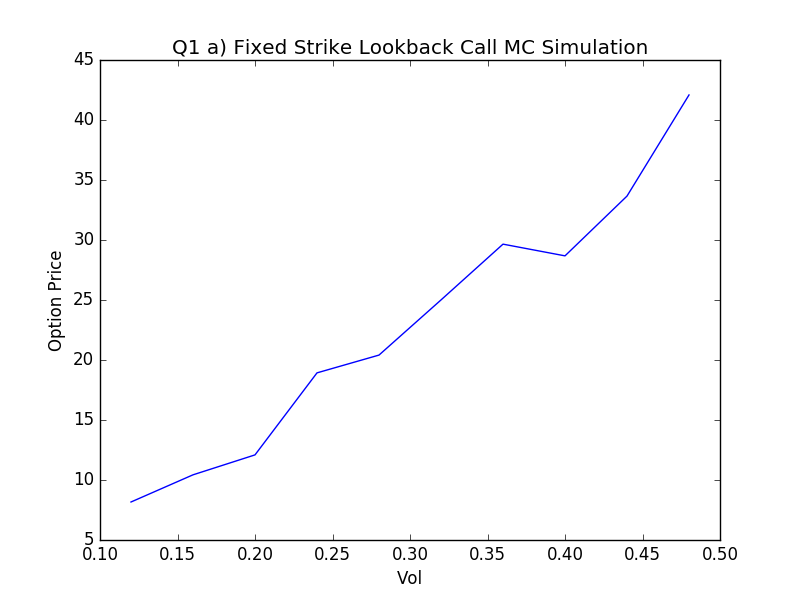
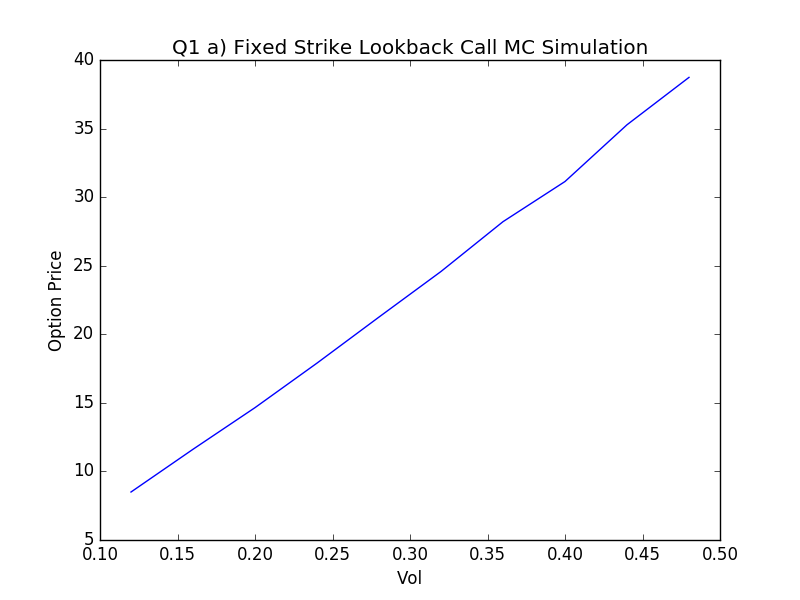
poisson process use 1/gamma

diff --git a/ComputionalFinance/ExoticOption.py b/ComputionalFinance/ExoticOption.py
@@ -2,7 +2,7 @@ import numpy as np
 import math
 import PoissonJump as jump
 
-
+import matplotlib.pyplot as plt
 class LookBackOption:
 
 
@@ -233,7 +233,7 @@ class DefaultOption:
 
     @ndiv.setter
     def ndiv(self, ndiv):
-        if ndiv <= 0 or not isinstance(ndiv, int):
+        if ndiv <= 0 or not isinstance(ndiv, np.int64):
             raise AttributeError('ndiv is not positive integer')
         else:
             self.__ndiv = ndiv
@@ -351,6 +351,12 @@ class DefaultOption:
             wdt = self.__dT*np.random.normal(0, 1, self.__nsims)
             self.__V[:,i] = np.multiply(self.__V[:,i-1],(1+self.__mu*self.__dT + self.__sigma*wdt + self.__gamma*jdt[:,i]))
 
+        '''
+        t = np.arange(0, self.__T + self.__dT / 2, self.__dT)
+        for i in range(self.__nsims):
+            plt.plot(t,self.__V[i,:])
+        plt.show()
+        '''
     def simulateLoanValue(self):
         if not self.isLoanParamsSet():
             raise Exception('Required params not set. Initialize correctly')
@@ -364,7 +370,7 @@ class DefaultOption:
         self.__ephsilon = ephsilon
         self.__beta = (ephsilon - alpha) / self.__T
 
-        t = np.arange(0,self.__T+self.__dT, self.__dT)
+        t = np.arange(0,self.__T+self.__dT/2, self.__dT)
         self.__q = self.__alpha + self.__beta*t
     '''
     Defualt time Q is the first time at which Vt <= qt*Lt
@@ -400,18 +406,19 @@ class DefaultOption:
 
         return E_t,type
 
-    def getDefaultOptionPrice(self):
+    def getDefaultOptionPrice(self,r0):
         exercise_time,exercise_type = self.getDefaultTime()
         payOff = np.zeros(self.__nsims)
         for i in range(self.__nsims):
             t = exercise_time[i]
+            disc = math.exp(-r0*t)
             type = exercise_type[i]
             if(t <0 ):
                 payOff[i] =0
             if(type == 1):
-                payOff[i]= max(0,self.__L[t]- self.__ephsilon *self.__V[i,t])
+                payOff[i]= max(0,self.__L[t]- self.__ephsilon *self.__V[i,t])*disc
             else:
-                payOff[i]= math.fabs(self.__L[t]- self.__ephsilon *self.__V[i,t])
+                payOff[i]= math.fabs(self.__L[t]- self.__ephsilon *self.__V[i,t])*disc
         return np.mean(payOff), np.var(payOff, ddof=1)/len(payOff)
 
 
@@ -422,5 +429,8 @@ class DefaultOption:
 
     def getExpectedExerciseTime(self):
         exercise_time,_ = self.getDefaultTime()
-        ind  = np.where(exercise_time >0 )
-        return (self.__dT*(exercise_time > 0).sum()) / len(ind)
+        ind  = np.asarray(np.where(exercise_time >0 )).flatten()
+        sum = 0
+        for i in range(len(ind)):
+            sum += exercise_time[ind[i]]
+        return (self.__dT*sum) / len(ind)

diff --git a/ComputionalFinance/Project6/Q2.py b/ComputionalFinance/Project6/Q2.py
@@ -33,14 +33,14 @@ l_T = len(T)
 
 r0 = 0.02
 delta = 0.25
-ndiv = 100
-nsims = 100
+ndiv = 12 * T  # 12 months per year
+nsims = 10000
 defaultOptionPrice = np.zeros([l_T,l_l1,l_l2])
 defaultProb = np.zeros([l_T,l_l1,l_l2])
 defaultExerciseTime = np.zeros([l_T,l_l1,l_l2])
 
 for i in range(l_T):
-    def_option= do(T[i],ndiv,nsims)
+    def_option= do(T[i],ndiv[i],nsims)
     for j in range(l_l1):
         def_option.initCollateral(V0, mu, sigma, gamma, lambda1[j])
         def_option.simulateCollateral()
@@ -48,7 +48,7 @@ for i in range(l_T):
             def_option.initLoan(L0, r0, delta, lambda2[k])
             def_option.setThreshold(alpha, ephsilon)
             def_option.simulateLoanValue()
-            defaultOptionPrice[i,j,k],_ = def_option.getDefaultOptionPrice()
+            defaultOptionPrice[i,j,k],_ = def_option.getDefaultOptionPrice(r0)
             defaultProb[i,j,k] = def_option.getDefaultProb()
             defaultExerciseTime[i,j,k] = def_option.getExpectedExerciseTime()
     del def_option
@@ -75,8 +75,8 @@ ax.set_position([box.x0, box.y0, box.width * 0.8, box.height])
 
 # Put a legend to the right of the current axis
 ax.legend(loc='center left', bbox_to_anchor=(1, 0.5))
-plt.show()
-
+#plt.show()
+plt.savefig("Proj6_2a.png")
 
 
 ## Fixing lambda2 = 0.4
@@ -96,4 +96,5 @@ ax.set_position([box.x0, box.y0, box.width * 0.8, box.height])
 
 # Put a legend to the right of the current axis
 ax.legend(loc='center left', bbox_to_anchor=(1, 0.5))
-plt.show()
+#plt.show()
+plt.savefig("Proj6_2b.png")

diff --git a/ComputionalFinance/PoissonJump.py b/ComputionalFinance/PoissonJump.py
@@ -2,26 +2,34 @@ import numpy as np
 import math
 class PoissonJump:
     def __init__(self, gamma,T,ndiv):
-        self.__gamma = gamma
+        if gamma == 0:
+            self.__gamma = -1
+        else:
+            self.__gamma = 1/gamma
         self.__T = T
         self.__ndiv = ndiv
         self.__dt  =T/ndiv
 
     def getJt(self):
-        jumptimes = list(self.getJumpTimes())
         jdt = np.zeros(self.__ndiv+1)
-        for i in range(len(jumptimes)):
-            jdt[jumptimes[i]]=1
-        yield jdt
+        if self.__gamma == -1:
+            yield jdt
+        else:
+            jumptimes = list(self.getJumpTimes())
+            for i in range(len(jumptimes)):
+                jdt[jumptimes[i]]=1
+            yield jdt
 
     def firstJumpTime(self):
-        u = np.random.uniform(0, 1, 1)
-        num = - self.__gamma * math.log(u)
-
-        if num <= self.__T:
-            return round(float(num) / self.__dt)
-        else:
+        if self.__gamma == -1 :
             return self.__ndiv+1
+        else:
+            u = np.random.uniform(0, 1, 1)
+            num = - self.__gamma * math.log(u)
+            if num <= self.__T:
+                return round(float(num) / self.__dt)
+            else:
+                return self.__ndiv+1
 
 
 

diff --git a/ComputionalFinance/Project6/Q1.py b/ComputionalFinance/Project6/Q1.py
@@ -10,7 +10,7 @@ r = 0.03
 T = 1
 ndiv = 100
 dT = T/ndiv
-nsims = 100
+nsims = 10000
 start_vol = 0.12
 end_vol = 0.48
 step_vol = 0.04
